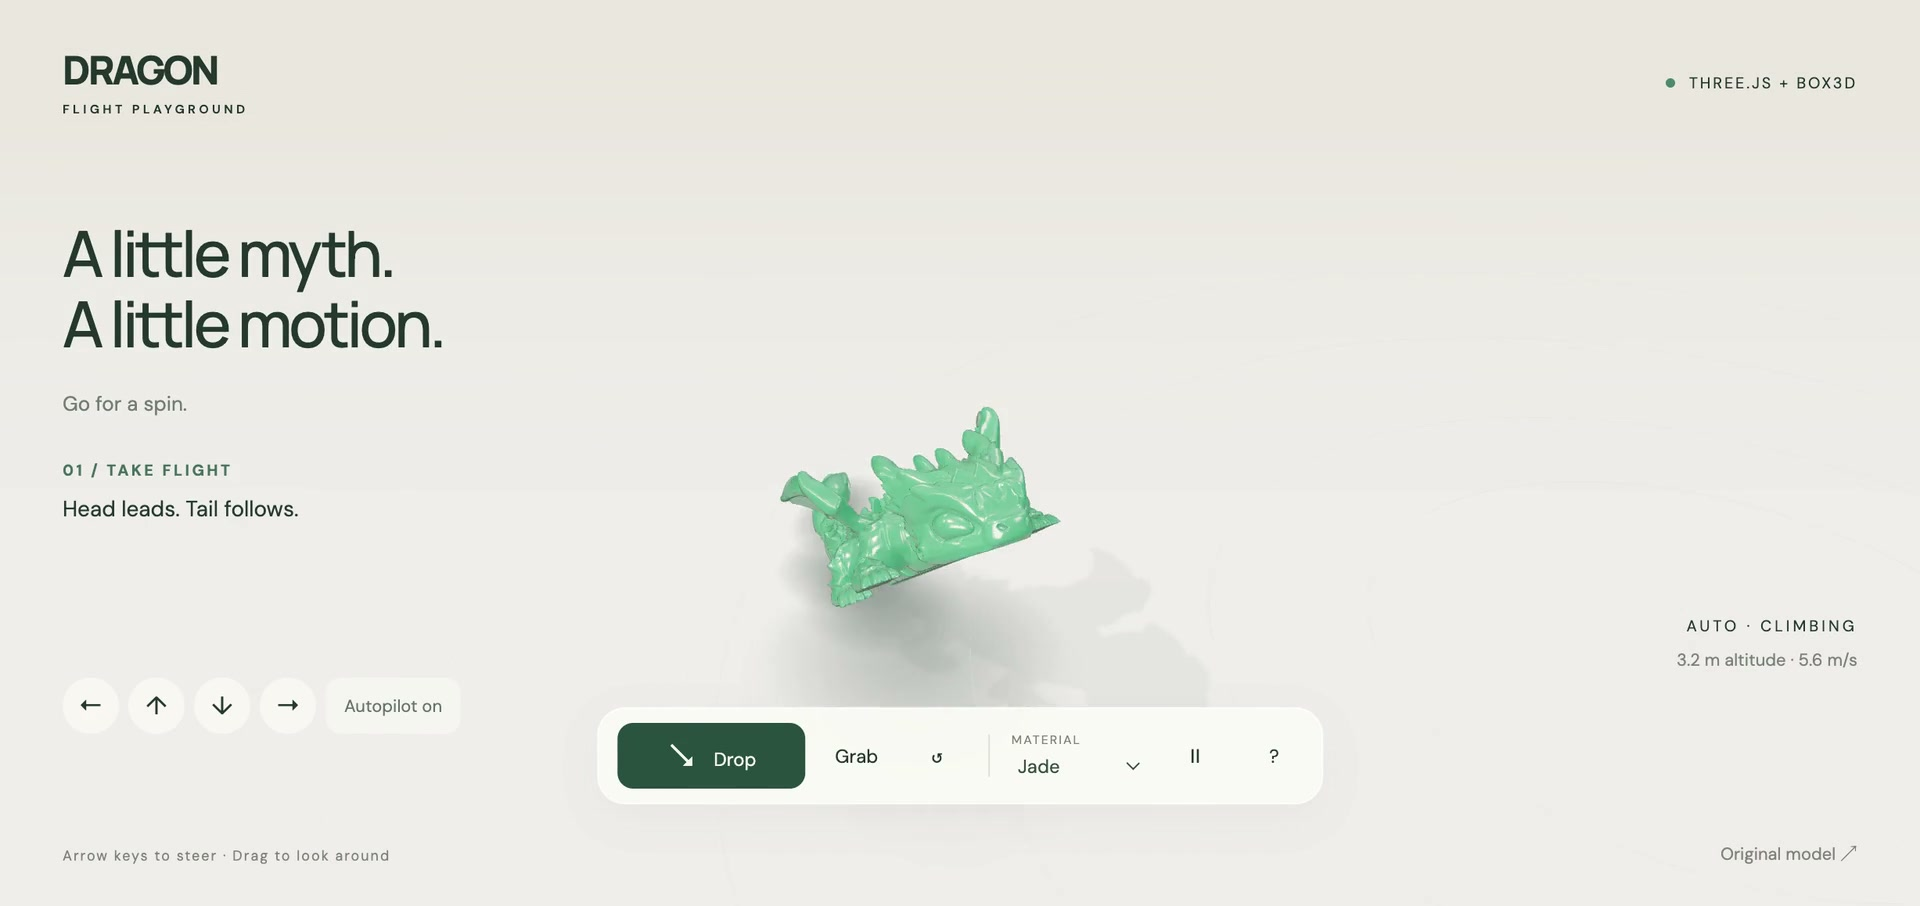
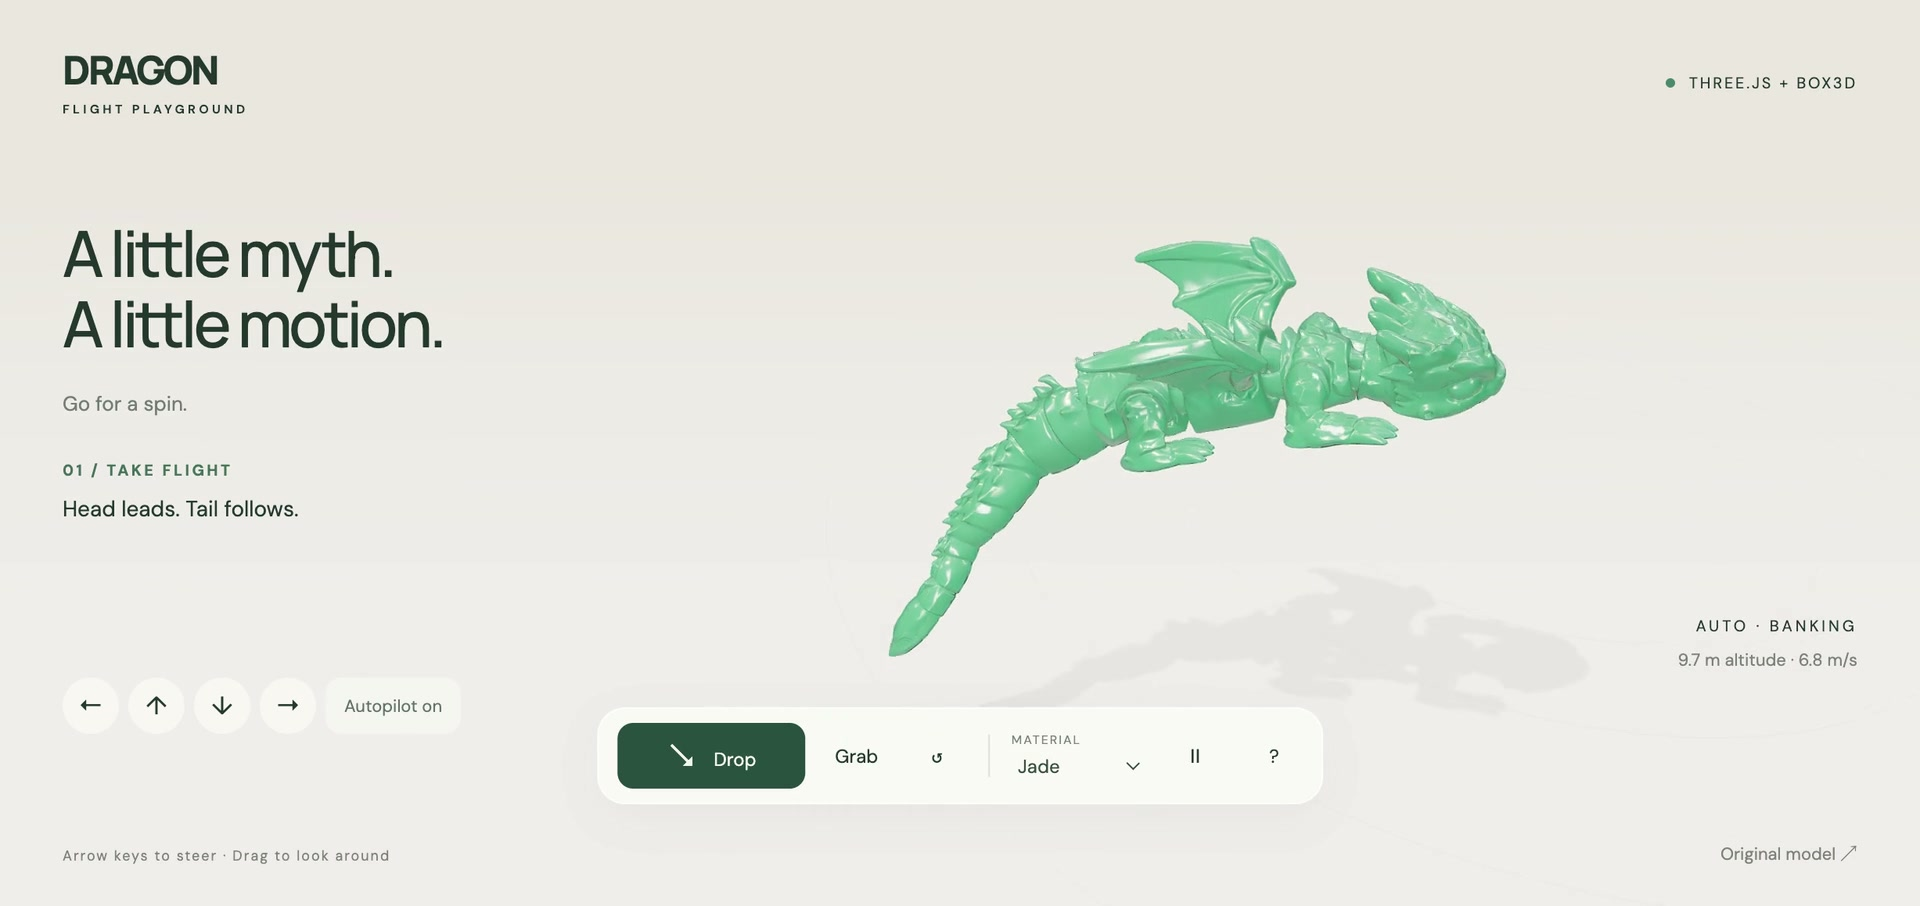
Feature widescreen demo and simplify its page introduction

Changed region(s): [[0.4062, 0.2472, 0.7812, 0.8035], [0.875, 0.6799, 0.9375, 0.7108]]

diff --git a/demo/widescreen.html b/demo/widescreen.html
@@ -19,9 +19,7 @@
   .brand span { display:block; font-size:9px; letter-spacing:2px; margin-top:9px; font-weight:600; }
 </style>
 <a class="brand" href="index.html">DRAGON<span>FLIGHT PLAYGROUND</span></a>
-<h1>Go for a spin.</h1>
-<p>A 72-second tour of the dragon playground. Flight, steering, gravity, grabbing, materials, and reset.</p>
-<video controls playsinline preload="metadata" poster="outputs/dragon-poster-widescreen.jpg" aria-label="Dragon playground feature tour">
+<video controls playsinline preload="metadata" poster="outputs/dragon-poster-widescreen.jpg?v=flight" aria-label="Dragon playground feature tour">
   <source src="outputs/dragon-feature-tour-widescreen.mp4" type="video/mp4">
   <a href="outputs/dragon-feature-tour-widescreen.mp4">Download the video</a>
 </video>

diff --git a/README.md b/README.md
@@ -2,11 +2,11 @@
 
 A Three.js playground that brings an articulated print model to life with Box3D physics. Steer the dragon through climbing turns and low swoops, watch the tail trail behind, or grab a section and give it a shake.
 
-[![Watch the 71-second portrait demo](outputs/dragon-poster.jpg?v=opening)](https://clyons.github.io/dragon-flight-til/)
+[![Watch the dragon climb into a turn in the widescreen demo](outputs/dragon-poster-widescreen.jpg?v=flight)](https://clyons.github.io/dragon-flight-til/widescreen.html)
 
-**[Watch the demo](https://clyons.github.io/dragon-flight-til/)** · [Widescreen version](https://clyons.github.io/dragon-flight-til/widescreen.html) · [Download the portrait MP4](outputs/dragon-feature-tour.mp4) · [Video chapters and recording method](docs/demo.md)
+**[Watch the widescreen demo](https://clyons.github.io/dragon-flight-til/widescreen.html)** · [Portrait version](https://clyons.github.io/dragon-flight-til/) · [Download the widescreen MP4](outputs/dragon-feature-tour-widescreen.mp4) · [Video chapters and recording method](docs/demo.md)
 
-The public page is a recorded feature tour: head-led flight, manual steering, autopilot handoff, grabbing, a throw and floor bump, three materials, and reset. Anyone can watch it without a model download or installation. The MP4 is 71 seconds, 1080 × 1350 (4:5), 30 fps, with captions and no audio. The interactive source below runs locally with separately obtained model assets.
+The public page is a recorded feature tour: head-led flight, manual steering, autopilot handoff, grabbing, a throw and floor bump, three materials, and reset. Anyone can watch it without a model download or installation. The widescreen video is 72 seconds at 1920 × 906; the portrait edit is 71 seconds at 1080 × 1350 (4:5). Both are 30 fps, with captions and no audio. The interactive source below runs locally with separately obtained model assets.
 
 [How it works](docs/how-it-works.md) · [Reproduce it](docs/reproduction.md) · [Attribution](docs/attribution.md)
 
